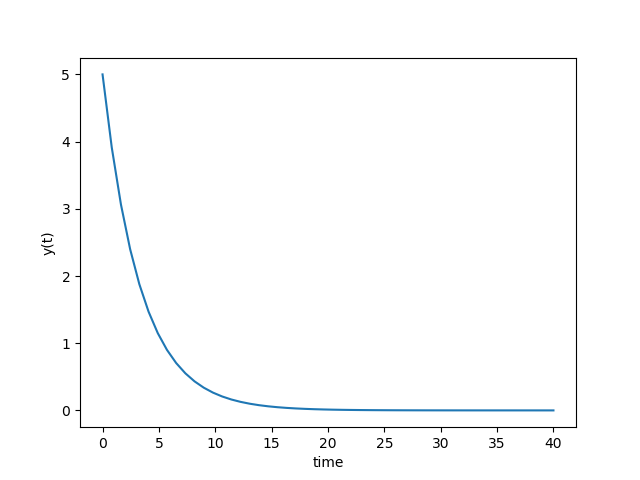
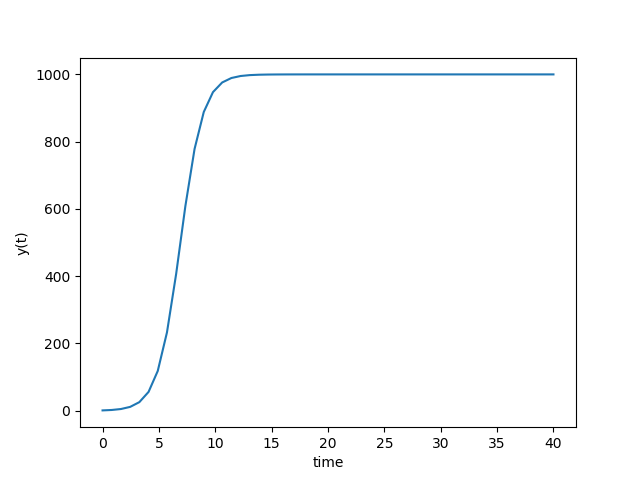
update

diff --git a/gui.py b/gui.py
@@ -108,8 +108,8 @@ def update_image(self):
 
 # function that returns dy/dt
 def model(y,t):
-    k = 0.3
-    dydt = -k * y
+    k = 1
+    dydt = k * (1-(y/1000)) * y
     return dydt
 
 if __name__ == '__main__':
